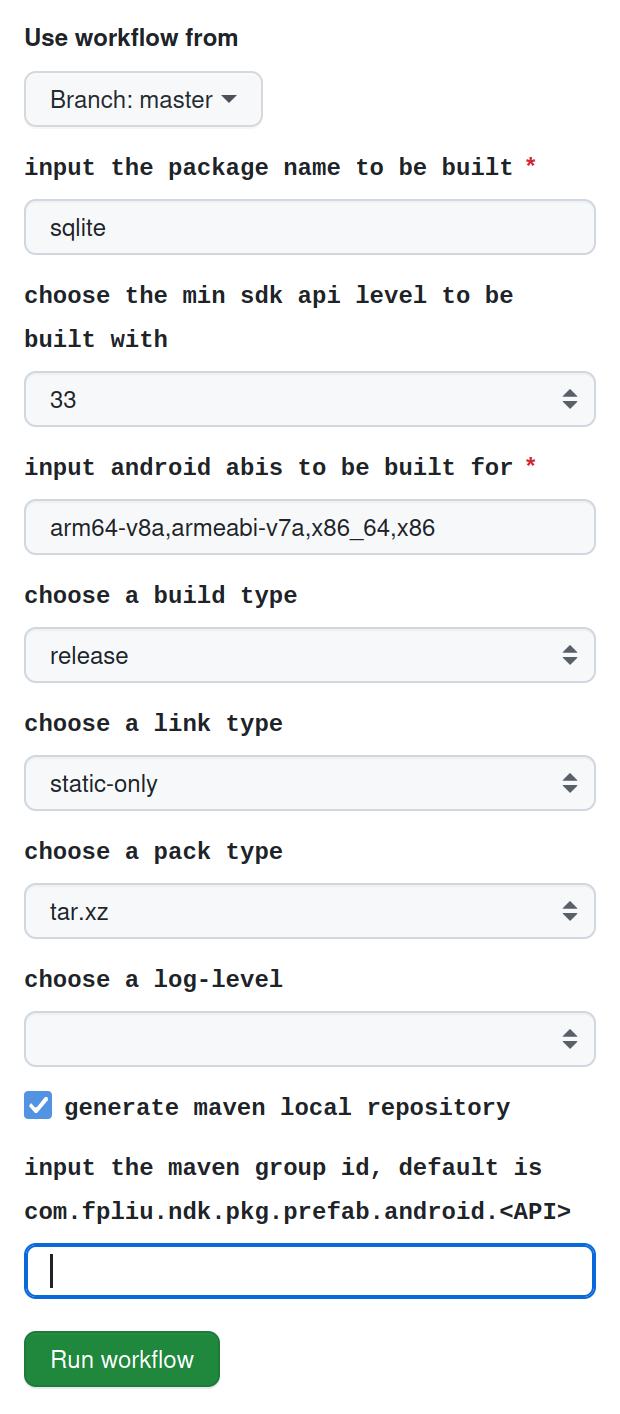
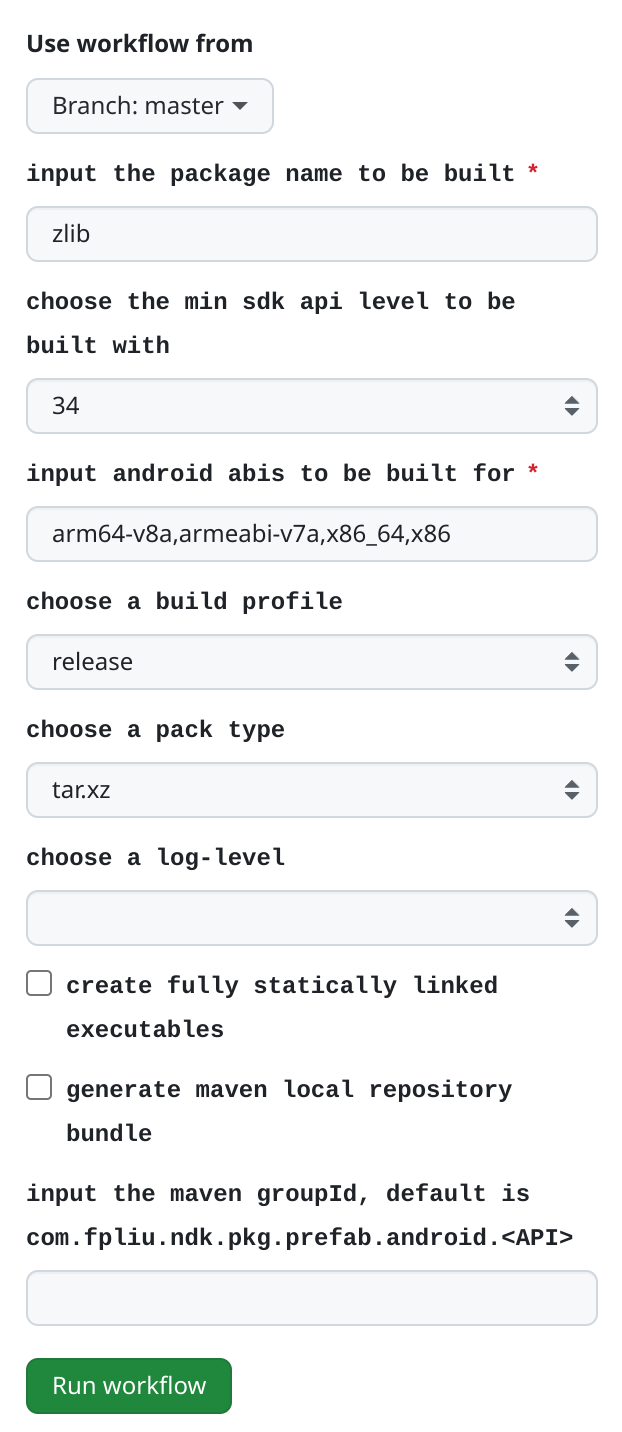
optimized

diff --git a/README.md b/README.md
@@ -31,11 +31,10 @@ This is the recommended way of using this software.
 
 In this way, you don't need to care about other things than:
 
-- what package would you like to build? [lookup package names](https://github.com/leleliu008/ndk-pkg-formula-repository-official-core/tree/master/formula)
+- which package would you like to build? [lookup package names](https://github.com/leleliu008/ndk-pkg-formula-repository-official-core/tree/master/formula)
 - which minimum Android SDK API level would you like to support?
 - which Android ABI would you like to build for?
-- which build type would you like to use?
-- which link type would you like to use?
+- which build profile would you like to use?
 
 ||
 |-|
